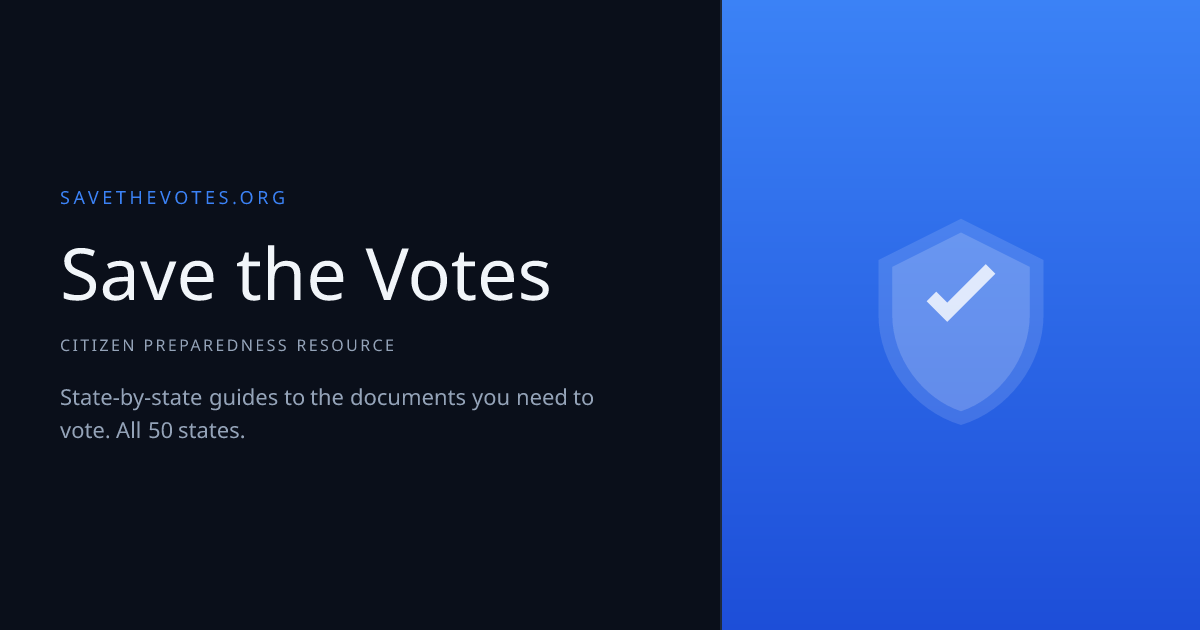
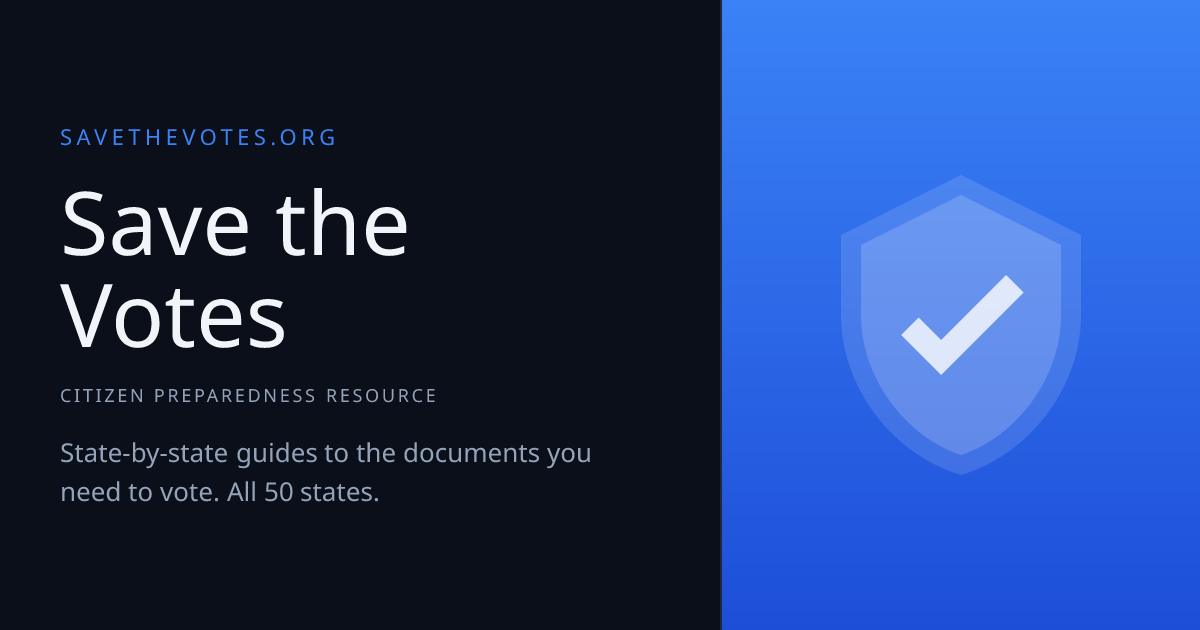
fix: polish OG image — larger text/shield, centered checkmark
Increased headline to 88px, shield to 320px, and all supporting text
for better readability at social media thumbnail sizes. Centered the
checkmark within the shield icon.

diff --git a/src/app/og/route.jsx b/src/app/og/route.jsx
@@ -29,7 +29,7 @@ export async function GET() {
           <div
             style={{
               fontFamily: "monospace",
-              fontSize: "18px",
+              fontSize: "22px",
               fontWeight: 700,
               letterSpacing: "0.2em",
               textTransform: "uppercase",
@@ -43,7 +43,7 @@ export async function GET() {
           <div
             style={{
               fontFamily: "Georgia, serif",
-              fontSize: "72px",
+              fontSize: "88px",
               fontWeight: 400,
               lineHeight: 1.05,
               color: "#f1f5f9",
@@ -56,7 +56,7 @@ export async function GET() {
           <div
             style={{
               fontFamily: "monospace",
-              fontSize: "16px",
+              fontSize: "18px",
               fontWeight: 700,
               letterSpacing: "0.15em",
               textTransform: "uppercase",
@@ -69,7 +69,7 @@ export async function GET() {
           {/* Value prop */}
           <div
             style={{
-              fontSize: "22px",
+              fontSize: "26px",
               lineHeight: 1.5,
               color: "#94a3b8",
               maxWidth: "540px",
@@ -101,8 +101,8 @@ export async function GET() {
         >
           {/* Large shield logo */}
           <svg
-            width="220"
-            height="220"
+            width="320"
+            height="320"
             viewBox="0 0 64 64"
             fill="none"
             style={{ opacity: 0.85 }}
@@ -116,7 +116,7 @@ export async function GET() {
               fill="rgba(255,255,255,0.2)"
             />
             <path
-              d="M28 34l-6-6 2.8-2.8L28 28.4l11.2-11.2L42 20 28 34z"
+              d="M28 44l-8-8 3.5-3.5L28 37l13-13L44.5 27.5 28 44z"
               fill="white"
             />
           </svg>
